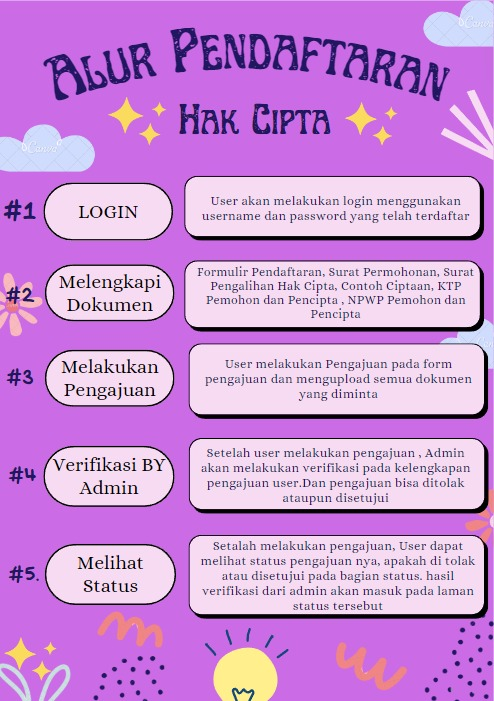
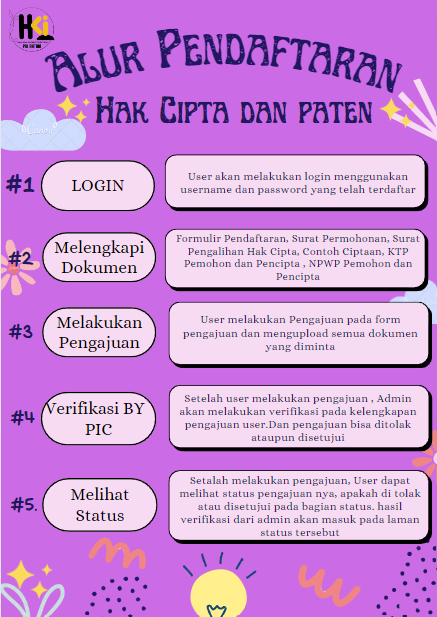
104% last bgt

diff --git a/resources/views/user/home.blade.php b/resources/views/user/home.blade.php
@@ -22,7 +22,7 @@ Beranda
         <p>Untuk proses pendaftarannya bisa mengikuti panduan (poster terlampir):</p>
     </div>
     <div class="col-12 text-center" data-aos="fade-up" data-aos-duration="400">
-        <a href="web/poster_alur.jpeg" class="image-link" title="Alur Hak-Cipta">
+        <a href="web/poster_alur.jpeg" class="image-link" title="Alur Hak-Cipta dan paten">
             <img src="web/poster_alur.jpeg" alt="Gambar" width="200" height="300">
         </a>
     </div>
